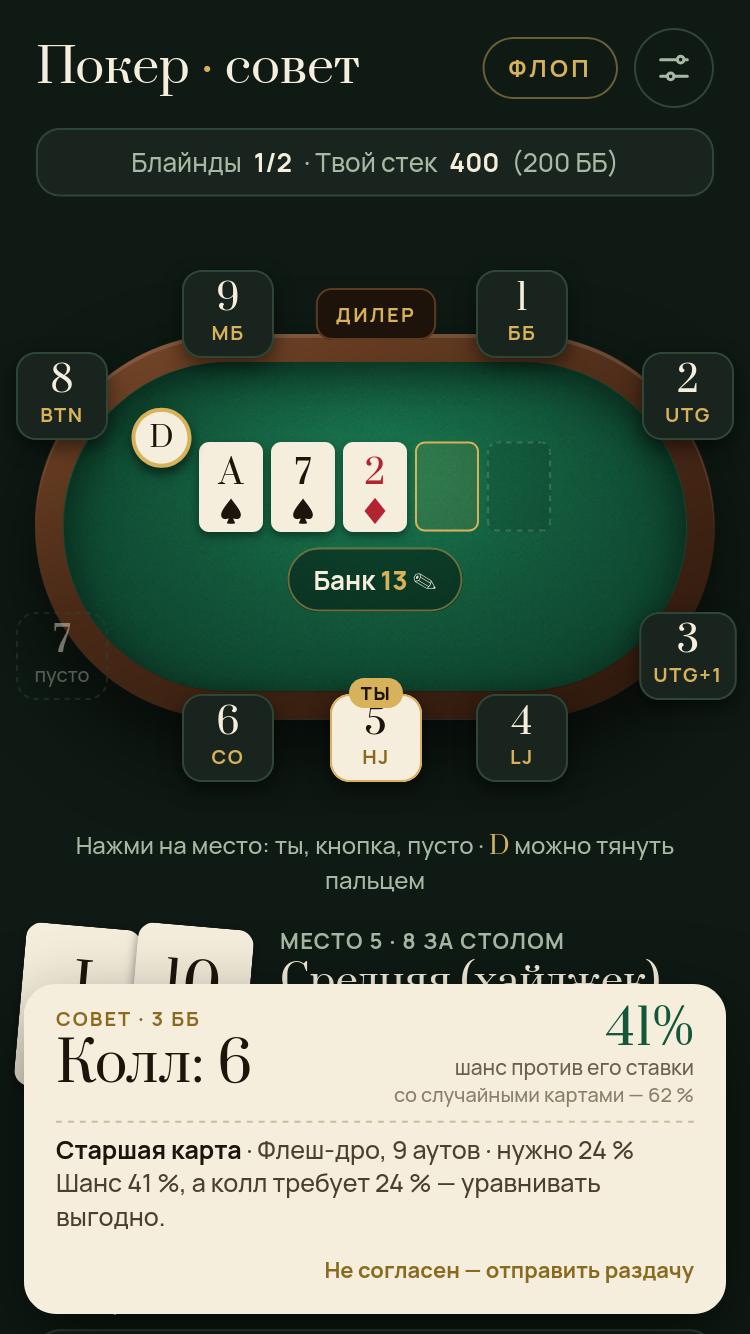
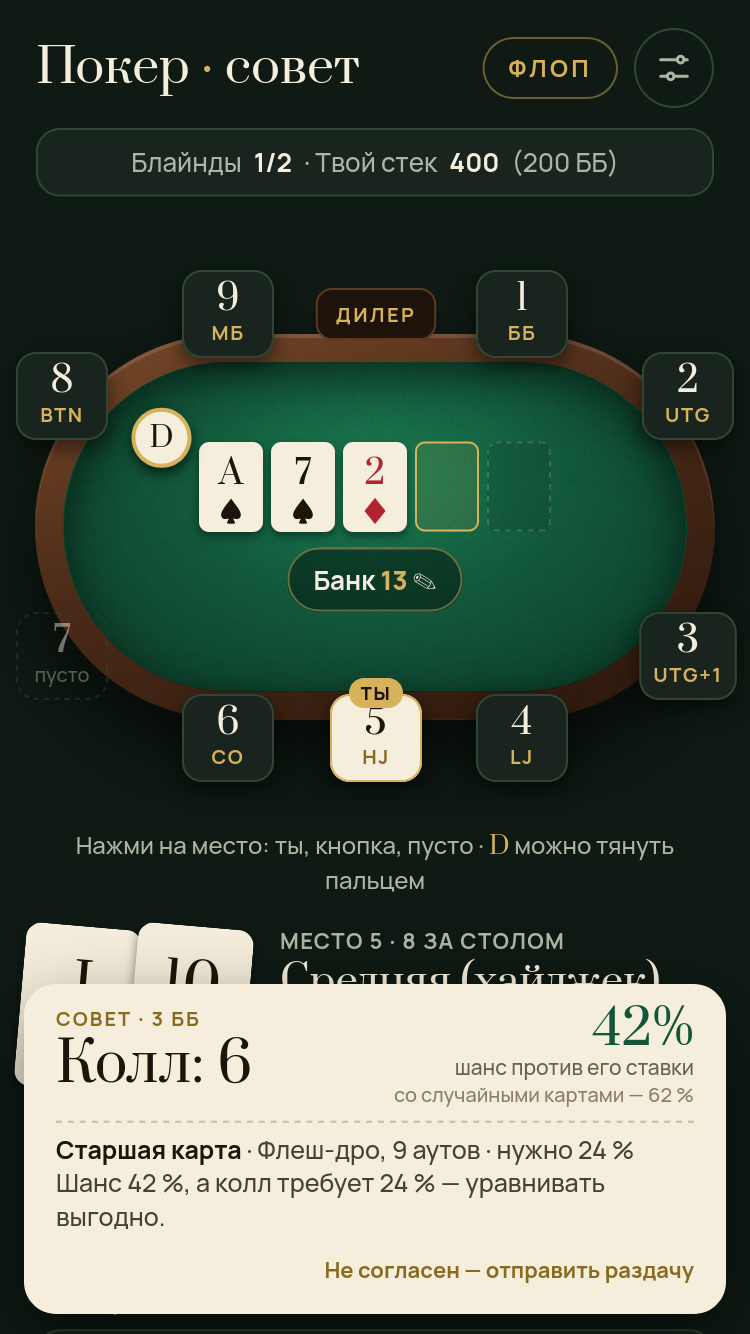
Приложение само обновляется при возвращении на экран (или кнопка, если идёт раздача)

Changed region(s): [[0.184, 0.8606, 0.5827, 0.8913], [0.6133, 0.8606, 0.7973, 0.922], [0.7973, 0.7376, 0.8587, 0.7991]]

diff --git a/app.js b/app.js
@@ -6,7 +6,7 @@ import { handClass } from './src/hands.js';
 import { GEOMETRY, DEALER_XY, SEAT_XY, SEAT_COUNT, activeSeats, seatPosition, nextActive } from './src/table.js';
 
 // Номер версии — поднимать при каждом обновлении вместе с CACHE в sw.js.
-const APP_VERSION = 7;
+const APP_VERSION = 8;
 const $ = (id) => document.getElementById(id);
 const RANK_LABEL = { 10: '10', 11: 'J', 12: 'Q', 13: 'K', 14: 'A' };
 const rankLabel = (r) => RANK_LABEL[r] || String(r);
@@ -575,6 +575,28 @@ render();
 if ('serviceWorker' in navigator && location.hostname !== 'localhost') {
   // updateViaCache: 'none' — сам офлайн-помощник тоже всегда берём свежий.
   navigator.serviceWorker.register('sw.js', { updateViaCache: 'none' })
-    .then((reg) => reg.update())
+    .then((reg) => {
+      reg.update();
+      // Айфон не перезагружает приложение с экрана «Домой», а разворачивает его из памяти —
+      // поэтому при каждом возвращении в приложение проверяем, нет ли новой версии.
+      document.addEventListener('visibilitychange', () => {
+        if (document.visibilityState === 'visible') reg.update();
+      });
+    })
     .catch(() => { /* без офлайна тоже работает */ });
+  // Пришла новая версия: если раздача пустая — обновляемся сразу, иначе предлагаем кнопку.
+  let reloading = false;
+  navigator.serviceWorker.addEventListener('controllerchange', () => {
+    if (reloading) return;
+    if (state.hole.every((c) => c === null) && boardCount() === 0) {
+      reloading = true;
+      location.reload();
+      return;
+    }
+    const bar = document.createElement('button');
+    bar.className = 'update-bar';
+    bar.textContent = 'Есть новая версия — нажми, чтобы обновить';
+    bar.onclick = () => { reloading = true; location.reload(); };
+    document.body.appendChild(bar);
+  });
 }

diff --git a/app.css b/app.css
@@ -170,3 +170,6 @@ h1 em { font-style: normal; color: var(--gold); }
 
 .gauge small { font-size: 10px; color: #8a7f6a; }
 .new-hand.big { width: 100%; min-height: 50px; margin-top: 12px; font-size: 15px; border-radius: 14px; }
+
+.update-bar { position: fixed; top: calc(8px + var(--safe-top)); left: 12px; right: 12px; z-index: 20; min-height: 44px;
+              border-radius: 12px; background: var(--gold); color: var(--ink); font: 700 14px Manrope; box-shadow: 0 8px 24px rgba(0,0,0,.5); }

diff --git a/sw.js b/sw.js
@@ -1,6 +1,6 @@
 // Офлайн-режим: сначала пробуем интернет (всегда свежая версия),
 // без связи — берём сохранённую копию из телефона.
-const CACHE = 'poker-v7';
+const CACHE = 'poker-v8';
 const FILES = [
   './', 'index.html', 'app.css', 'app.js', 'manifest.webmanifest',
   'src/cards.js', 'src/evaluator.js', 'src/equity.js', 'src/hands.js', 'src/handRanks.js',
